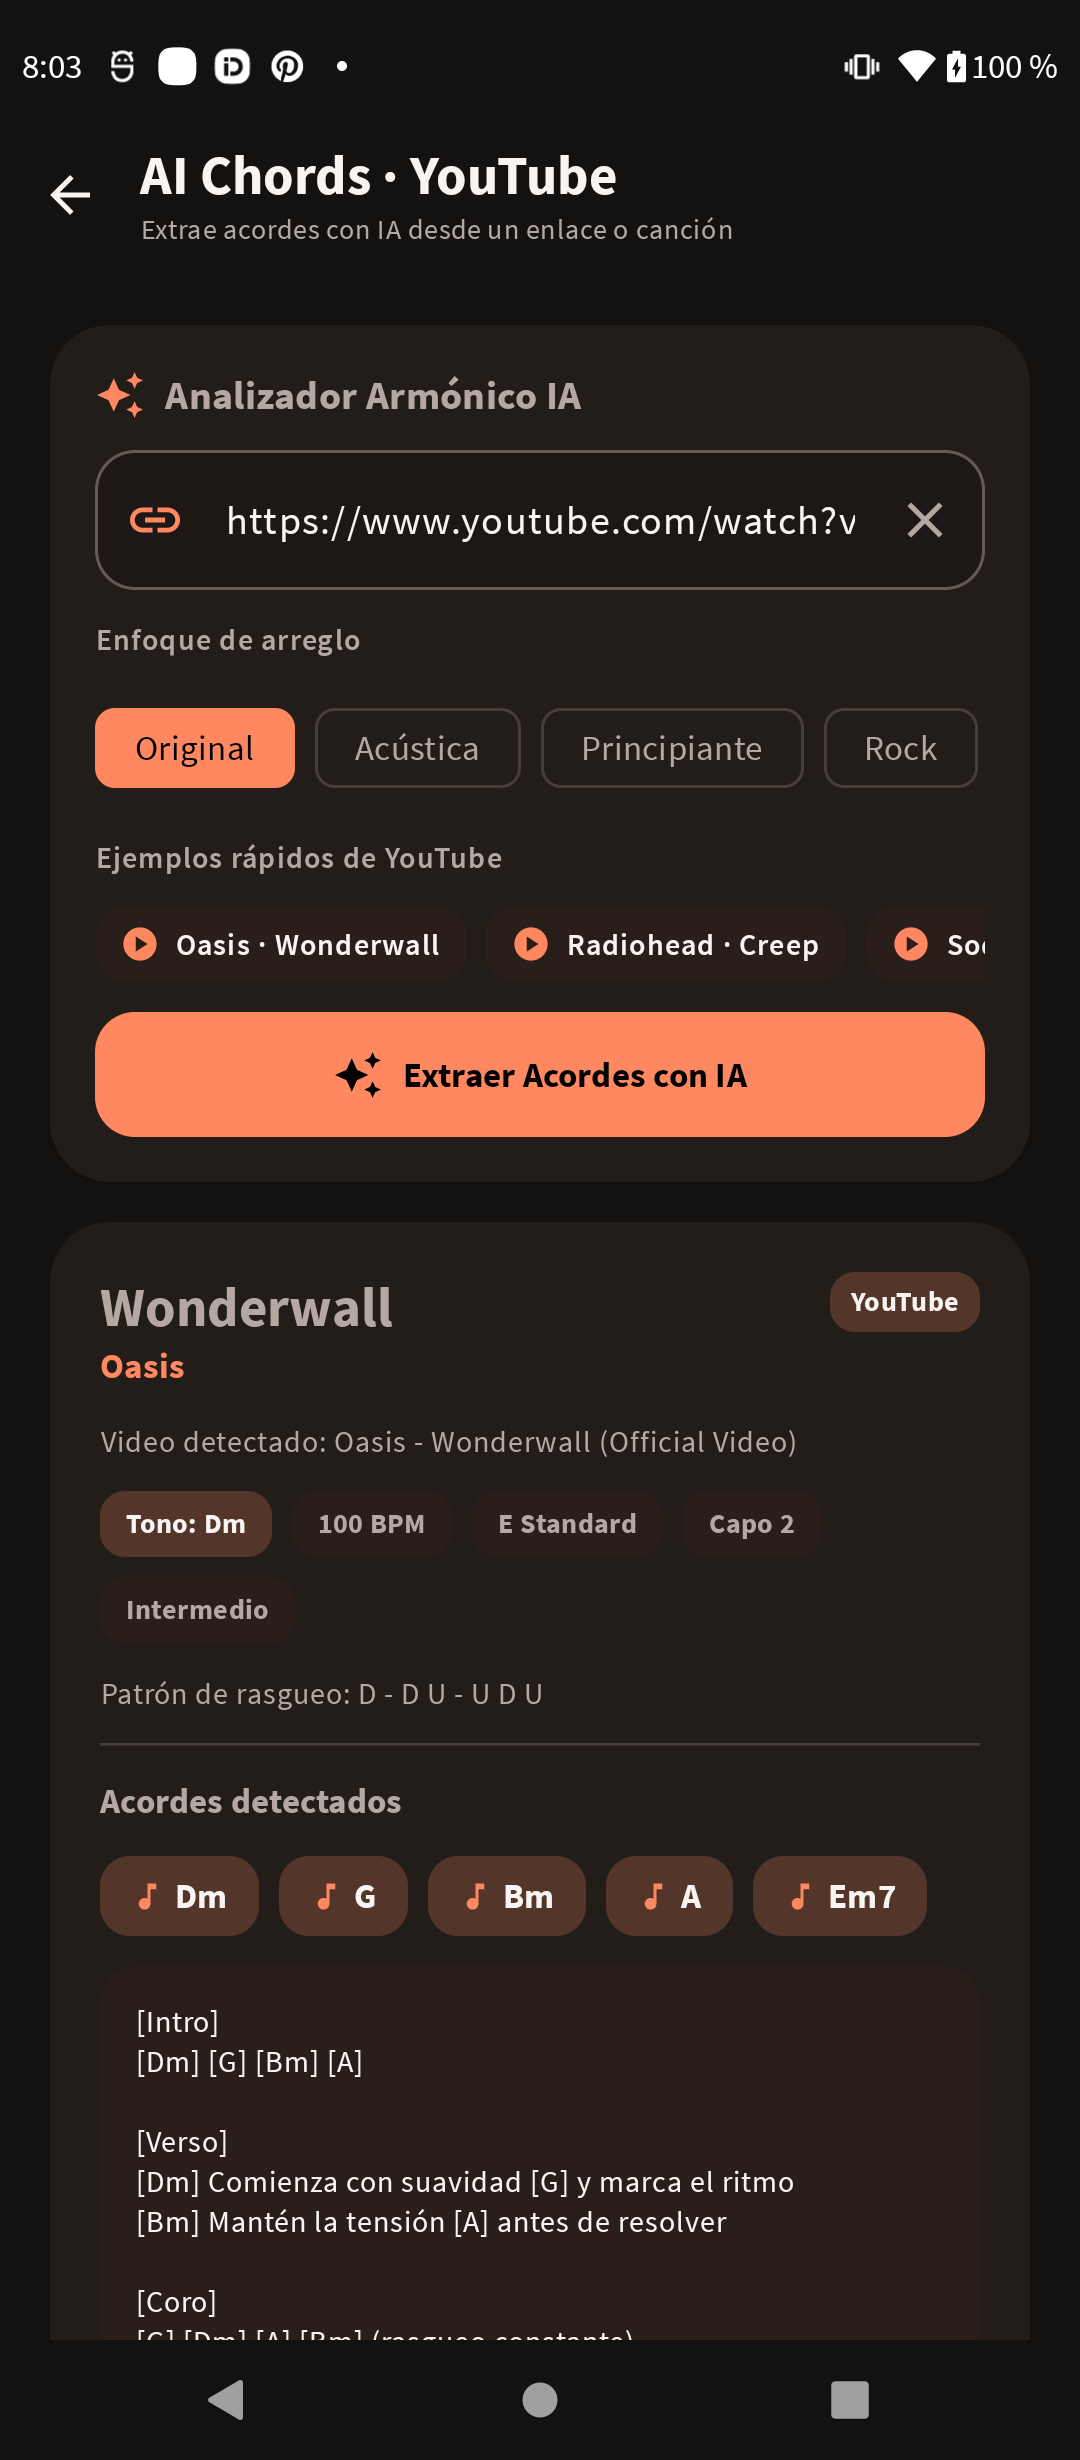
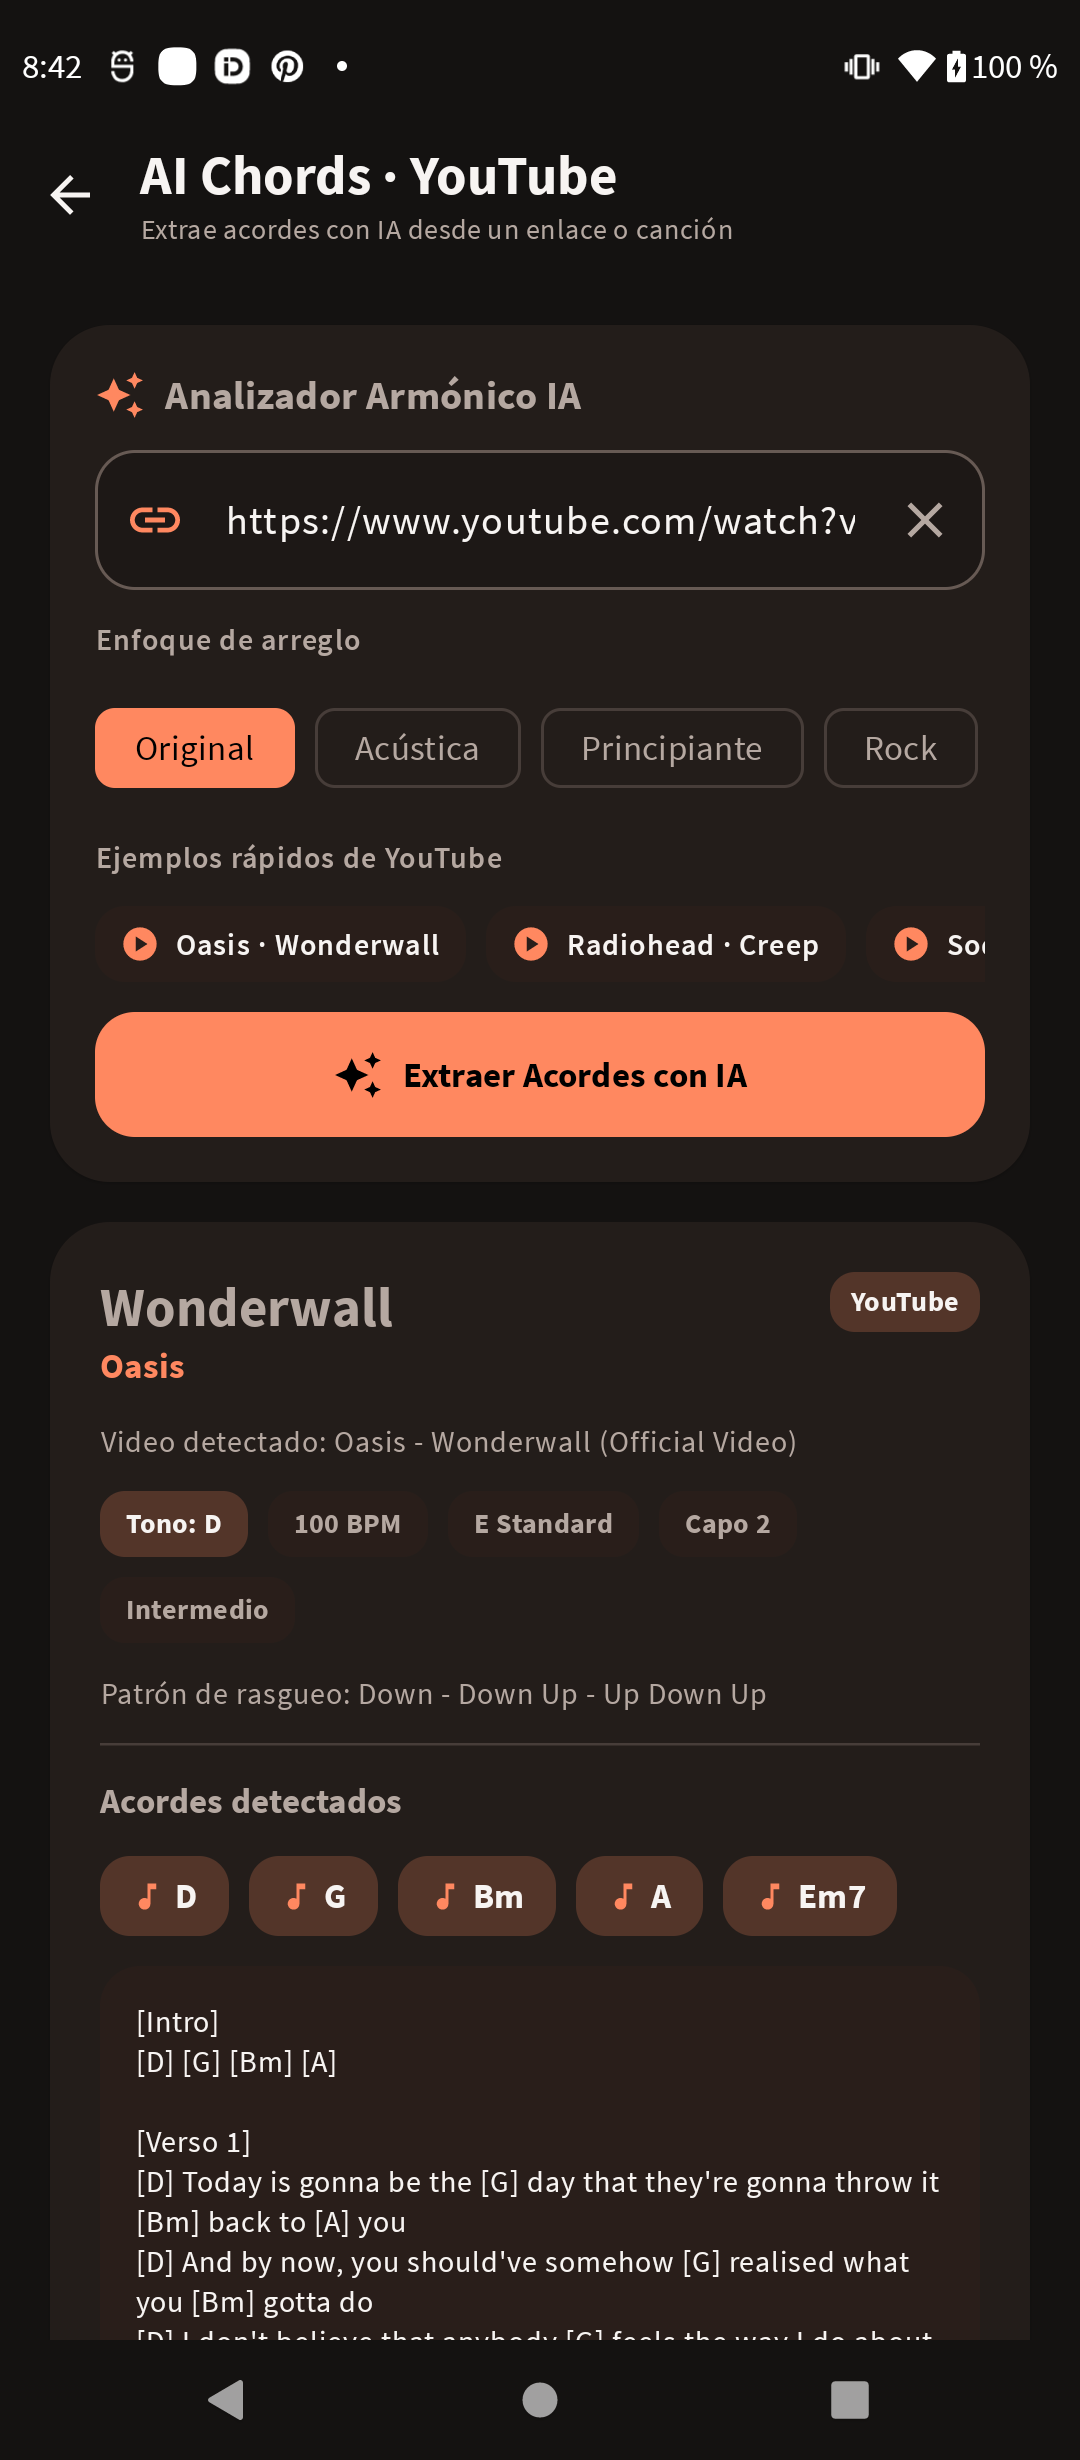
feat(ai): include real song lyrics with inline chords in AI Chords worker

diff --git a/cloudflare-worker/worker.js b/cloudflare-worker/worker.js
@@ -36,6 +36,147 @@ function looksLikeUrl(rawInput) {
   return /^https?:\/\//i.test(rawInput) || /youtu(\.be|be\.com)/i.test(rawInput);
 }
 
+function cleanTrackText(text) {
+  let cleaned = String(text || "");
+  cleaned = cleaned.replace(/\|.*$/g, "");
+  cleaned = cleaned.replace(
+    /\((?:official\s*(?:music\s*)?(?:video|audio|lyric\s*video|visualizer)|lyrics?|letra|audio|hd|4k|remastered[^)]*|live[^)]*|en\s+vivo[^)]*|video\s+oficial)\)/gi,
+    " "
+  );
+  cleaned = cleaned.replace(
+    /\[(?:official\s*(?:music\s*)?(?:video|audio|lyric\s*video|visualizer)|lyrics?|letra|audio|hd|4k|remastered[^\]]*|live[^\]]*|en\s+vivo[^\]]*|video\s+oficial)\]/gi,
+    " "
+  );
+  cleaned = cleaned.replace(/\b(?:VEVO|Official)\b/gi, " ");
+  cleaned = cleaned.replace(/\s*-\s*Topic\b/gi, "");
+  cleaned = cleaned.replace(/[\u{1F300}-\u{1FAFF}\u{2600}-\u{27BF}]/gu, " ");
+  return cleaned.replace(/\s+/g, " ").trim();
+}
+
+function trimLyricsForPrompt(rawLyrics, maxChars = 2200) {
+  const normalized = String(rawLyrics || "")
+    .replace(/\r\n/g, "\n")
+    .replace(/\n{3,}/g, "\n\n")
+    .trim();
+  if (!normalized || normalized.length <= maxChars) {
+    return normalized;
+  }
+  const slice = normalized.slice(0, maxChars);
+  const lastParagraphBreak = slice.lastIndexOf("\n\n");
+  if (lastParagraphBreak >= Math.floor(maxChars * 0.55)) {
+    return slice.slice(0, lastParagraphBreak).trim();
+  }
+  const lastLineBreak = slice.lastIndexOf("\n");
+  if (lastLineBreak >= Math.floor(maxChars * 0.55)) {
+    return slice.slice(0, lastLineBreak).trim();
+  }
+  return slice.trim();
+}
+
+async function fetchRealLyrics(videoTitle, channelAuthor, rawInput) {
+  const cleanTitle = cleanTrackText(videoTitle);
+  const cleanAuthor = cleanTrackText(channelAuthor);
+  const cleanRaw = looksLikeUrl(rawInput) ? "" : cleanTrackText(rawInput);
+
+  const queries = [];
+  if (cleanTitle) {
+    if (cleanAuthor && !cleanTitle.toLowerCase().includes(cleanAuthor.toLowerCase())) {
+      queries.push(`${cleanAuthor} ${cleanTitle}`);
+    }
+    queries.push(cleanTitle);
+  }
+  if (cleanRaw && !queries.includes(cleanRaw)) {
+    queries.push(cleanRaw);
+  }
+
+  const titleWords = (cleanTitle || cleanRaw)
+    .toLowerCase()
+    .split(/[^a-z0-9áéíóúñü]+/i)
+    .filter((w) => w.length >= 3);
+
+  for (const query of queries.slice(0, 2)) {
+    try {
+      const searchUrl = `https://lrclib.net/api/search?q=${encodeURIComponent(query)}`;
+      const resp = await fetch(searchUrl, {
+        headers: {
+          "User-Agent": "RiffForge-AI/1.2 (+https://github.com/Dibucrak/Riff-Forge)",
+          Accept: "application/json",
+        },
+        signal: AbortSignal.timeout(4500),
+      });
+      if (!resp.ok) continue;
+      const results = await resp.json();
+      if (!Array.isArray(results) || results.length === 0) continue;
+
+      const candidates = results.filter(
+        (item) => item && item.instrumental !== true && typeof item.plainLyrics === "string" && item.plainLyrics.trim().length > 20
+      );
+      if (candidates.length === 0) continue;
+
+      let best = candidates[0];
+      if (titleWords.length > 0) {
+        let bestScore = -1;
+        for (const item of candidates) {
+          const hay = `${item.trackName || ""} ${item.artistName || ""} ${item.name || ""}`.toLowerCase();
+          let score = 0;
+          for (const word of titleWords) {
+            if (hay.includes(word)) score += 1;
+          }
+          if (score > bestScore) {
+            bestScore = score;
+            best = item;
+          }
+        }
+      }
+
+      const trimmed = trimLyricsForPrompt(best.plainLyrics, 2200);
+      if (trimmed) {
+        return trimmed;
+      }
+    } catch {
+      // Silently fallback so the AI endpoint never breaks if LRCLIB times out
+    }
+  }
+  return "";
+}
+
+function escapeLiteralNewlinesInStrings(jsonText) {
+  let out = "";
+  let inString = false;
+  let escaped = false;
+  for (let i = 0; i < jsonText.length; i++) {
+    const ch = jsonText[i];
+    if (escaped) {
+      out += ch;
+      escaped = false;
+      continue;
+    }
+    if (ch === "\\" && inString) {
+      out += ch;
+      escaped = true;
+      continue;
+    }
+    if (ch === "\"") {
+      inString = !inString;
+      out += ch;
+      continue;
+    }
+    if (inString && ch === "\n") {
+      out += "\\n";
+      continue;
+    }
+    if (inString && ch === "\r") {
+      continue;
+    }
+    if (inString && ch === "\t") {
+      out += "\\t";
+      continue;
+    }
+    out += ch;
+  }
+  return out;
+}
+
 function parseAiJson(rawOutput) {
   if (rawOutput && typeof rawOutput === "object" && !Array.isArray(rawOutput)) {
     return rawOutput;
@@ -47,7 +188,11 @@ function parseAiJson(rawOutput) {
   if (firstBrace >= 0 && lastBrace > firstBrace) {
     text = text.slice(firstBrace, lastBrace + 1);
   }
-  return JSON.parse(text);
+  try {
+    return JSON.parse(text);
+  } catch {
+    return JSON.parse(escapeLiteralNewlinesInStrings(text));
+  }
 }
 
 export default {
@@ -127,19 +272,25 @@ export default {
         }
       }
 
+      const fetchedLyrics = await fetchRealLyrics(videoTitle, channelAuthor, rawInput);
+
       const targetDescription = videoId
         ? `Video de YouTube:\n- Título del video: "${videoTitle}"\n- Canal/Artista en YouTube: "${channelAuthor}"\n- URL: ${youtubeUrl}`
         : `Canción / consulta ingresada por el músico: "${rawInput}"`;
 
+      const lyricsInstructionBlock = fetchedLyrics
+        ? `\n\nLetra real de referencia (conserva estos versos en su idioma original y coloca los acordes [Acorde] exactamente antes de la palabra o sílaba donde cambia cada acorde):\n${fetchedLyrics}`
+        : `\n\nIncluye la letra real conocida de la canción en su idioma original con los acordes [Acorde] colocados inline exactamente antes de la palabra o sílaba donde cambia cada acorde (si es puramente instrumental, detalla la estructura por secciones y compases).`;
+
       const systemPrompt =
-        "Eres un guitarrista profesional y director musical experto en armonía para guitarra. " +
-        "Responde ÚNICAMENTE con un objeto JSON válido (sin markdown ni texto extra). " +
-        "Usa cifrado americano estándar para los nombres de acordes (C, Am, Fmaj7, Dsus4, E7, F#m, Bb) porque la app los transpone automáticamente. " +
-        "NO reproduzcas letras completas con copyright; usa únicamente guías breves de estructura musical y frases cortas de referencia con acordes entre corchetes como [Em7] [G] [Dsus4] [A7sus4].";
+        "Eres un guitarrista profesional y transcriptor experto de cifrados ChordPro. " +
+        "Responde ÚNICAMENTE con un objeto JSON válido (sin markdown, sin bloques ``` ni texto fuera del JSON; usa \\n escapado dentro de strings JSON). " +
+        "Usa cifrado americano estándar para los nombres de acordes (C, Am, Em7, Dsus4, E7, F#m, Bb) porque la app los transpone automáticamente. " +
+        "Debes incluir la letra real de la canción en su idioma original dentro de \"content\" con los acordes entre corchetes [Acorde] colocados exactamente antes de la palabra o sílaba donde cambia cada acorde, organizada por secciones ([Intro], [Verso 1], [Pre-Coro], [Coro], [Verso 2], [Puente], [Outro]).";
 
       const userPrompt = `${targetDescription}
 Estilo/Enfoque solicitado: ${styleHint}
-Idioma de explicaciones: ${language === "es" ? "Español" : "English"}
+Idioma de explicaciones: ${language === "es" ? "Español" : "English"}${lyricsInstructionBlock}
 
 Devuelve exactamente un JSON con esta estructura:
 {
@@ -152,7 +303,7 @@ Devuelve exactamente un JSON con esta estructura:
   "difficulty": "Fácil | Intermedio | Avanzado",
   "strummingPattern": "Patrón rítmico breve en español, ej. D - D U - U D U",
   "chords": ["Em7", "G", "Dsus4", "A7sus4"],
-  "content": "[Intro]\\n[Em7] [G] [Dsus4] [A7sus4]\\n\\n[Verso]\\n[Em7] Entrada suave [G] marca el compás\\n[Dsus4] Mantén la tensión [A7sus4] antes de resolver\\n\\n[Coro]\\n[Cadd9] [G] [D] [Em7] (rasgueo abierto)",
+  "content": "[Intro]\\n[Em7] [G] [Dsus4] [A7sus4]\\n\\n[Verso 1]\\n[Em7] Today is gonna be the [G] day that they're gonna throw it [Dsus4] back to [A7sus4] you\\n...",
   "practiceTip": "Consejo práctico en 1-2 oraciones en español (escala sugerida para improvisar, dinámica o digitación clave)."
 }`;
 
@@ -162,8 +313,8 @@ Devuelve exactamente un JSON con esta estructura:
             { role: "system", content: systemPrompt },
             { role: "user", content: userPrompt },
           ],
-          max_tokens: 1400,
-          temperature: 0.25,
+          max_tokens: 3000,
+          temperature: 0.2,
         });
 
         const parsed = parseAiJson(aiResult?.response ?? aiResult);
@@ -200,6 +351,8 @@ Devuelve exactamente un JSON con esta estructura:
           chords: chords.length > 0 ? chords : [key],
           content,
           practiceTip,
+          hasLyrics: Boolean(fetchedLyrics || content.split("\n").length > 6),
+          lyricsSource: fetchedLyrics ? "lrclib" : "llm",
           youtubeUrl,
           youtubeVideoId: videoId || "",
           thumbnailUrl,
